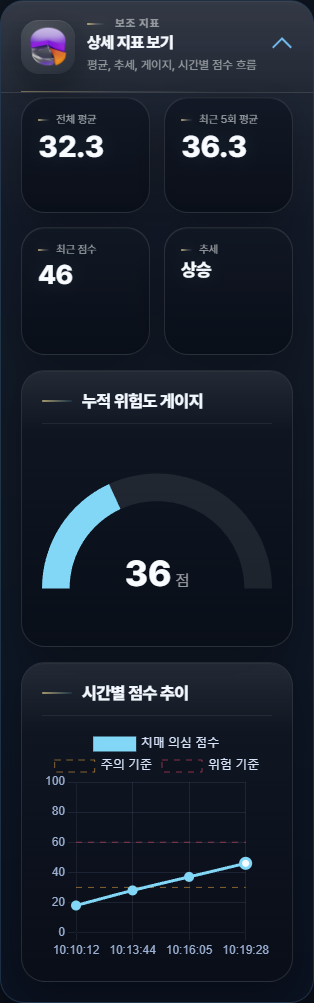
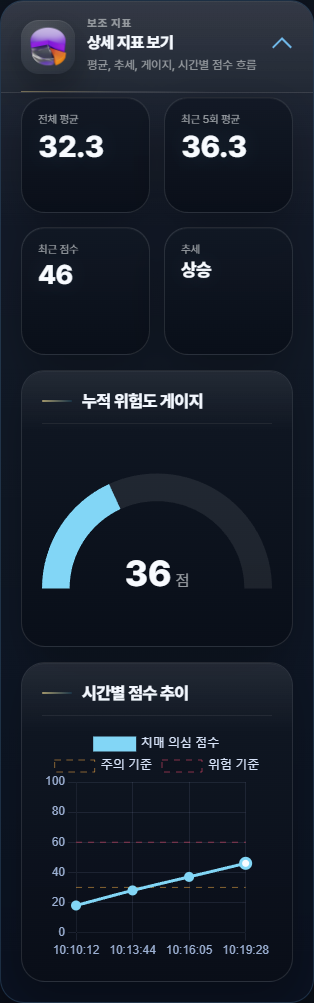
Summary

diff --git a/static/style.css b/static/style.css
@@ -1275,9 +1275,15 @@ body::after {
 
 .status-label,
 .mini-title,
-.analysis-title,
 .workspace-overview-label,
-.panel-disclosure-kicker,
+.panel-disclosure-kicker {
+  position: relative;
+  display: flex;
+  align-items: center;
+  gap: 0;
+}
+
+.analysis-title,
 .analysis-hero-score-label,
 .analysis-hero-metric span {
   position: relative;
@@ -1288,9 +1294,12 @@ body::after {
 
 .status-label::before,
 .mini-title::before,
-.analysis-title::before,
 .workspace-overview-label::before,
-.panel-disclosure-kicker::before,
+.panel-disclosure-kicker::before {
+  display: none;
+}
+
+.analysis-title::before,
 .analysis-hero-score-label::before,
 .analysis-hero-metric span::before {
   content: "";
